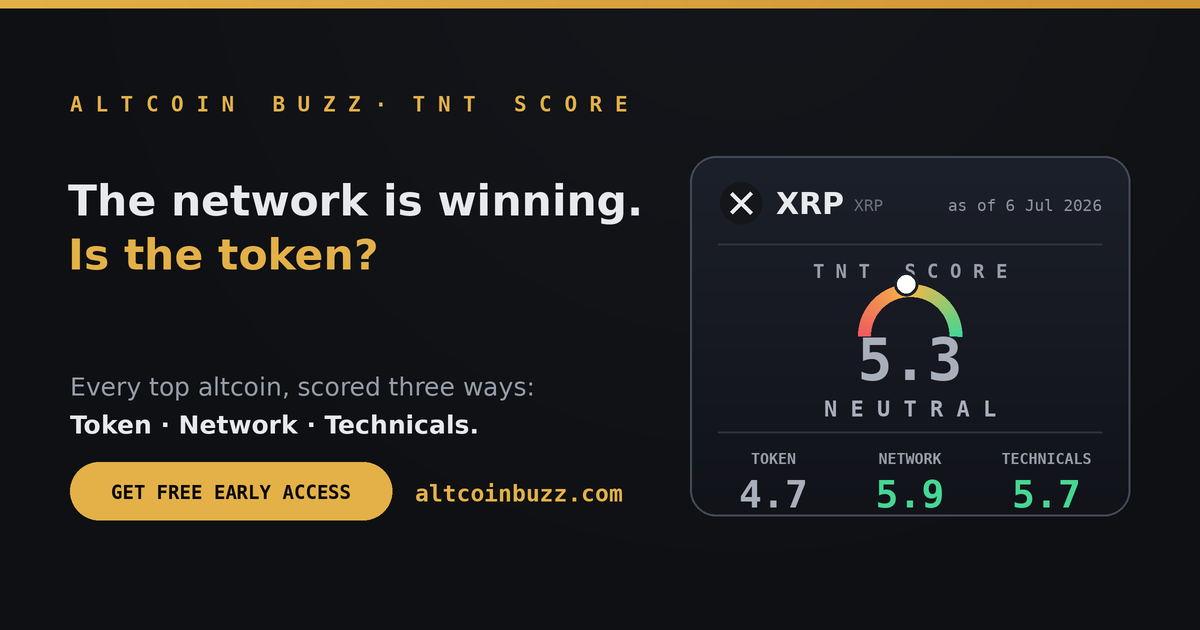
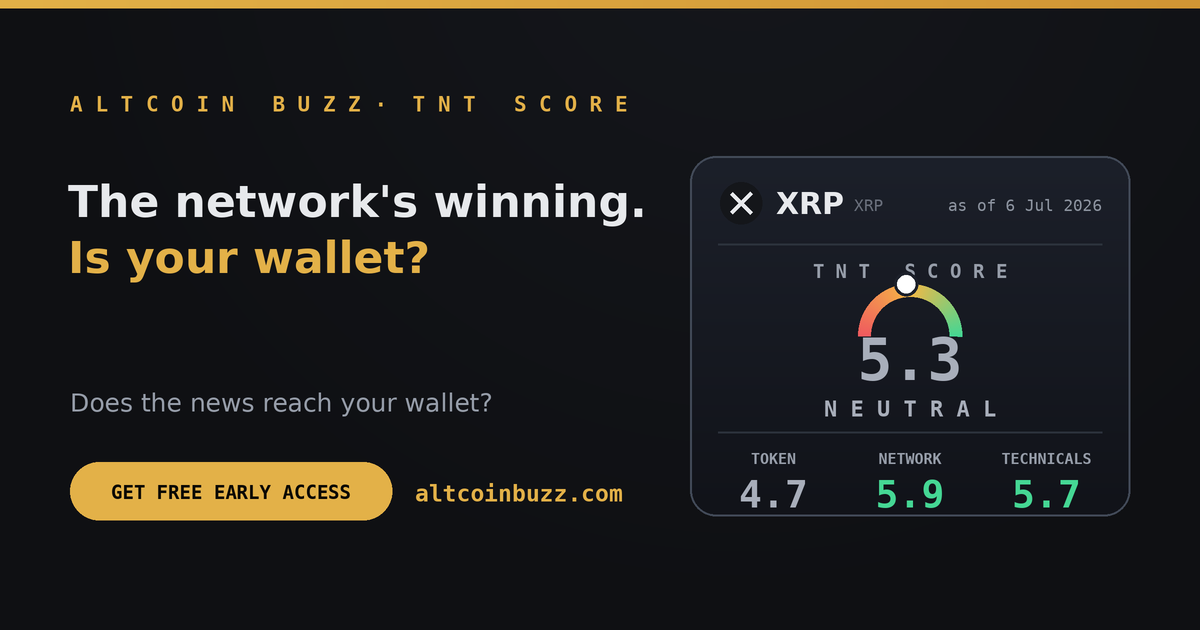
hero: possessive tagline (network's winning / is your wallet)

Changed region(s): [[0.0617, 0.2714, 0.555, 0.4524], [0.0617, 0.6032, 0.4625, 0.6937]]

diff --git a/index.html b/index.html
@@ -22,17 +22,17 @@
         altcoinbuzz.com, switch og:url + og:image + twitter:image back to the altcoinbuzz.com domain. -->
 <meta property="og:type" content="website">
 <meta property="og:site_name" content="Altcoin Buzz">
-<meta property="og:title" content="The network is winning. Is the token? · Altcoin Buzz TNT Score">
+<meta property="og:title" content="The network's winning. Is your wallet? · Altcoin Buzz TNT Score">
 <meta property="og:description" content="Every top altcoin scored three ways: Token, Network and Technicals. See whether the news actually reaches the token, or just the network. Get free early access.">
 <meta property="og:url" content="https://josephkhansf.github.io/altcoin-buzz-mockups/">
 <meta property="og:image" content="https://josephkhansf.github.io/altcoin-buzz-mockups/og-image.png">
 <meta property="og:image:width" content="1200">
 <meta property="og:image:height" content="630">
-<meta property="og:image:alt" content="Altcoin Buzz TNT Score. XRP composite TNT 5.3 neutral - Token 4.7, Network 5.9, Technicals 5.7. The network is winning. Is the token?">
+<meta property="og:image:alt" content="Altcoin Buzz TNT Score. XRP composite TNT 5.3 neutral - Token 4.7, Network 5.9, Technicals 5.7. The network's winning. Is your wallet?">
 <meta name="twitter:card" content="summary_large_image">
 <meta name="twitter:site" content="@Altcoinbuzzio">
 <meta name="twitter:creator" content="@Altcoinbuzzio">
-<meta name="twitter:title" content="The network is winning. Is the token? · Altcoin Buzz TNT Score">
+<meta name="twitter:title" content="The network's winning. Is your wallet? · Altcoin Buzz TNT Score">
 <meta name="twitter:description" content="Every top altcoin scored three ways. See whether the news actually moves the token, or just the network. Free early access.">
 <meta name="twitter:image" content="https://josephkhansf.github.io/altcoin-buzz-mockups/og-image.png">
 <meta name="twitter:image:alt" content="Altcoin Buzz TNT Score. XRP composite TNT 5.3 neutral - Token 4.7, Network 5.9, Technicals 5.7.">
@@ -140,6 +140,8 @@ header{position:sticky; top:0; z-index:50; background:var(--header-bg);
 h1{font-size:clamp(34px,5vw,54px); line-height:1.03; font-weight:700; color:var(--ink);
   letter-spacing:-.022em; margin-bottom:16px}
 .subhead{font-size:17.5px; color:var(--mut); max-width:35em; margin:0 auto 22px}
+.hero-eyebrow{font-size:clamp(15px,2.2vw,20px); font-weight:600; color:var(--mut); letter-spacing:-.01em; margin:0 0 6px}
+.hero-support{font-size:14.5px; color:var(--faint); max-width:35em; margin:0 auto 22px}
 .trust{display:flex; flex-wrap:wrap; align-items:center; justify-content:center; gap:8px 18px;
   font-size:12.5px; color:var(--faint); margin:0 auto 28px; max-width:40em}
 .trust span{display:inline-flex; align-items:center; gap:7px}
@@ -637,8 +639,10 @@ html:not([data-theme="dark"]) .quote .attrib span{color:var(--mut)}
   <div class="wrap hero-grid">
     <div class="hero-left">
     <div class="launch-pill"><span class="dot"></span>EARLY ACCESS · LAUNCHING Q3 2026</div>
-    <h1>The network is winning.<br>Is the token?</h1>
-    <p class="subhead">Every top altcoin, scored 3 ways: Token, Network and Technicals (TNT), to help you see if the news is really going to impact the token, or not.</p>
+    <p class="hero-eyebrow">The network's winning.</p>
+    <h1>Is your wallet?</h1>
+    <p class="subhead">Does the news reach your wallet?</p>
+    <p class="hero-support">Every top altcoin, scored 3 ways: Token, Network and Technicals (TNT), to help you see if the news is really going to impact the token, or not.</p>
 
     <!-- Email-capture lead magnet (reusable: .magnet wraps .js-signup + .js-success).
          ⚠ CONFIG: until SIGNUP_ENDPOINT (bottom of file) is wired to the operator's Mailchimp